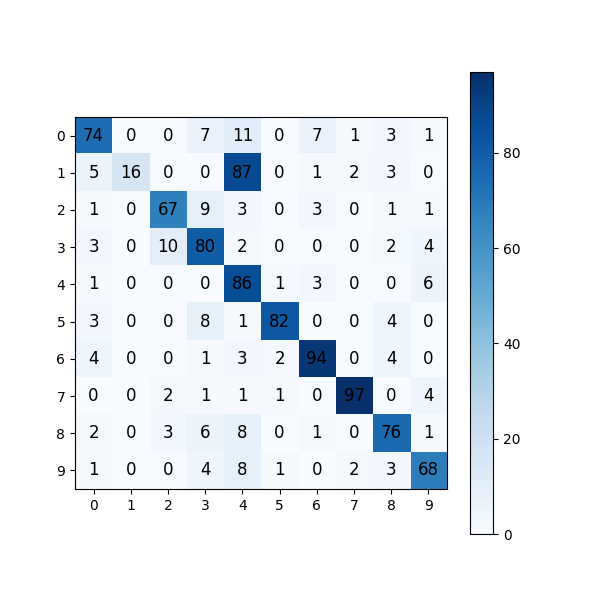
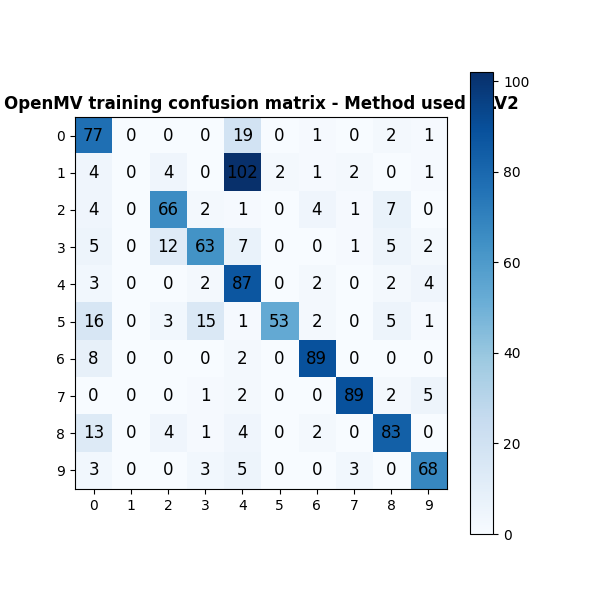
It seems that almost all training are working

diff --git a/OpenMV_application/Scripts/OpenMV/OpenMV_myLib.py b/OpenMV_application/Scripts/OpenMV/OpenMV_myLib.py
@@ -10,7 +10,7 @@ class LastLayer(object):
 
         self.method = 0
         self.W = 6
-        self.offset = self.W.copy()
+        self.offset = 6
         self.H = 1352
         self.counter = 0
 
@@ -115,6 +115,8 @@ def write_results(OL_layer):
 
     with open('training_results.txt', 'w') as f:
 
+        f.write(str(OL_layer.method) + '\n')
+
         # write the labels
         for i in range(0, OL_layer.W):
             f.write(OL_layer.label[i])
@@ -151,7 +153,7 @@ def write_results(OL_layer):
 
 def allocateMemory(OL_layer):
 
-    if(OL_layer.method != 0 and OL_layer.method != 1 and OL_layer.method != 3):
+    if(OL_layer.method != 0 and OL_layer.method != 1):
         setattr(OL_layer, "weights_2",     np.zeros((OL_layer.W,OL_layer.H)) )
         setattr(OL_layer, "biases_2",      np.zeros((OL_layer.W,1)) )
         setattr(OL_layer, "weights_new_2", np.zeros((1,OL_layer.H)) )
@@ -161,13 +163,8 @@ def allocateMemory(OL_layer):
     if(OL_layer.method == 4):
         setattr(OL_layer, "found_lett", np.zeros((OL_layer.W,1)) )
 
-    # LWF or LWF mini batches
-    if(OL_layer.method == 3 or OL_layer.method == 7):
 
-        OL_layer.weights_2     = OL_layer.weights.copy()
-        OL_layer.biases_2      = OL_layer.biases.copy()
-        OL_layer.weights_new_2 = OL_layer.weights_new.copy()
-        OL_layer.biases_new_2  = OL_layer.biases_new.copy()
+
 
 
 
@@ -189,21 +186,25 @@ def check_label(OL_layer, current_label):
         # If new label are multiple expand the matrix of weights/biases
         if(OL_layer.W>7):
 
+            # expand weights new
             tmp = np.zeros((1,OL_layer.H))
             OL_layer.weights_new   = np.concatenate((OL_layer.weights_new, tmp))
 
-            if(OL_layer.method != 0 and OL_layer.method != 1 and OL_layer.method != 3):
+            # expand weights new 2
+            if(OL_layer.method==4 or OL_layer.method==5 or OL_layer.method==6 or OL_layer.method==7):
                 OL_layer.weights_new_2 = np.concatenate((OL_layer.weights_new_2, tmp))
 
+            # expand biases new
             tmp = np.zeros((1,1))
             OL_layer.biases_new    = np.concatenate((OL_layer.biases_new, tmp), axis=0)
 
-            if(OL_layer.method != 0 and OL_layer.method != 1 and OL_layer.method != 3):
+            # expand biases new 2
+            if(OL_layer.method==4 or OL_layer.method==5 or OL_layer.method==6 or OL_layer.method==7):
                 OL_layer.biases_new_2  = np.concatenate((OL_layer.biases_new_2, tmp), axis=0)
 
-            if(OL_layer.method == 4):
-            OL_layer.found_lett = np.concatenate((OL_layer.found_lett, tmp), axis=0)
-
+        # expand found letters
+        if(OL_layer.method==4):
+            OL_layer.found_lett = np.concatenate((OL_layer.found_lett, np.zeros((1,1)) ), axis=0)
 
         # Append to known labels the new one
         OL_layer.label.append(current_label)
@@ -261,7 +262,7 @@ def feed_forward_V2(out_frozen, OL_layer):
     ret_ary = np.linalg.dot(OL_layer.weights_2, out_frozen) + OL_layer.biases_2
 
     # Feed forward on the new weights
-    if(OL_layer.W > 6 ):
+    if(OL_layer.W > 6 and OL_layer.method != 3):
         ret_ary_new = np.linalg.dot(OL_layer.weights_new_2, out_frozen) + OL_layer.biases_new_2
 
         ret_ary = np.concatenate((ret_ary, ret_ary_new))
@@ -402,17 +403,17 @@ def train_LWF(OL_layer, true_label, out_frozen):
     out_LWF_1 = feed_forward(out_frozen, OL_layer)
     out_LWF_2 = feed_forward_V2(out_frozen, OL_layer)
     prediction_1 = softmax(out_LWF_1)
-    prediction_2 = softmax(out_LWF_2)
+    prediction_2_tmp = softmax(out_LWF_2)
+    prediction_2 = np.zeros((OL_layer.W,1))
+    prediction_2[:6,0] = prediction_2_tmp[:6,0]
+
 
     # BACKPROPAGATION
     my_lambda = 100/(100+OL_layer.counter)
 
     cost_1 = np.zeros((OL_layer.W,1)) # normal cost
     cost_2 = np.zeros((OL_layer.W,1)) # LWF cost
-    if(cost_1[i,0]==0 and cost_2[i,0]==0):
-            continue
     tmp = np.zeros((2,1))
-
     out_frozen = np.array(out_frozen).reshape((1,OL_layer.H)) # Reshape
 
     # Compute cost
@@ -448,6 +449,9 @@ def train_CWR(OL_layer, true_label, out_frozen):
     out_CWR = feed_forward_V2(out_frozen, OL_layer)
     prediction = softmax(out_CWR)
 
+    # UPDATE LETTER FOUND COUNTER
+    OL_layer.found_lett[np.argmax(true_label)] += 1
+
     # BACKPROPAGATION
     cost = np.zeros((OL_layer.W,1)) # normal cost
     tmp = np.zeros((1,1))
@@ -477,20 +481,22 @@ def train_CWR(OL_layer, true_label, out_frozen):
     if((OL_layer.counter % OL_layer.batch_size == 0) and (OL_layer.counter != 0)):
 
         for i in range(0, OL_layer.W):
-            if(OL_layer.found_lett[i] != 0):
+            if(OL_layer.found_lett[i,0] != 0):
 
                 if(i<offset):
                     for j in range(0, OL_layer.H):
-                        OL_layer.weights[i,j] = ((OL_layer.weights[i,j]*OL_layer.found_lett[i])+OL_layer.weights_2[i,j])/(OL_layer.found_lett[i]+1)
+                        OL_layer.weights[i,j] = ((OL_layer.weights[i,j]*OL_layer.found_lett[i,0])+OL_layer.weights_2[i,j])/(OL_layer.found_lett[i,0]+1)
                         OL_layer.weights_2[i,j] = OL_layer.weights[i,j]
-                    OL_layer.biases[i,0] = ((OL_layer.biases[]*OL_layer.found_lett[i])+OL_layer.biases_2[i,0])/(OL_layer.found_lett[i]+1)
+                    OL_layer.biases[i,0] = ((OL_layer.biases[i,0]*OL_layer.found_lett[i,0])+OL_layer.biases_2[i,0])/(OL_layer.found_lett[i,0]+1)
                     OL_layer.biases_2[i,0] = OL_layer.biases[i,0]
                 else:
                     for j in range(0, OL_layer.H):
-                        OL_layer.weights_new[i-offset,j] = ((OL_layer.weights_new[i-offset,j]*OL_layer.found_lett[i])+OL_layer.weights_new_2[i-offset,j])/(OL_layer.found_lett[i]+1)
+                        OL_layer.weights_new[i-offset,j] = ((OL_layer.weights_new[i-offset,j]*OL_layer.found_lett[i])+OL_layer.weights_new_2[i-offset,j])/(OL_layer.found_lett[i,0]+1)
                         OL_layer.weights_new_2[i-offset,j] = OL_layer.weights_new[i-offset,j]
-                    OL_layer.biases_new[i-offset,0] = ((OL_layer.biases_new[i-offset,0]*OL_layer.found_lett[i])+OL_layer.biases_new_2[i-offset,0])/(OL_layer.found_lett[i]+1)
+                    OL_layer.biases_new[i-offset,0] = ((OL_layer.biases_new[i-offset,0]*OL_layer.found_lett[i,0])+OL_layer.biases_new_2[i-offset,0])/(OL_layer.found_lett[i,0]+1)
                     OL_layer.biases_new_2[i-offset,0] = OL_layer.biases_new[i-offset,0]
+
+            OL_layer.found_lett[i,0] = 0
 
     return prediction
 
@@ -609,10 +615,14 @@ def train_LWF_mini_batch(OL_layer, true_label, out_frozen):
     out_LWF_1 = feed_forward(out_frozen, OL_layer)
     out_LWF_2 = feed_forward_V2(out_frozen, OL_layer)
     prediction_1 = softmax(out_LWF_1)
-    prediction_2 = softmax(out_LWF_2)
+    # non propriamente giusto per lwf bathc
+    prediction_2_tmp = softmax(out_LWF_2)
+    prediction_2 = np.zeros((OL_layer.W,1))
+    prediction_2[:6,0] = prediction_2_tmp[:6,0]
 
+    my_lambda = 0
     # BACKPROPAGATION
-    if(OL_layer.counter < OL_layer.batch_size)
+    if(OL_layer.counter < OL_layer.batch_size):
         my_lambda = 1
     else:
         my_lambda = OL_layer.batch_size/OL_layer.counter
@@ -629,8 +639,6 @@ def train_LWF_mini_batch(OL_layer, true_label, out_frozen):
 
         cost_1[i,0] = (prediction_1[i,0]-true_label[i,0])*(1-my_lambda)*OL_layer.l_rate
         cost_2[i,0] = (prediction_1[i,0]-prediction_2[i,0])*my_lambda*OL_layer.l_rate
-        if(cost_1[i,0]==0 and cost_2[i,0]==0):
-            continue
         tmp[0,0] = cost_1[i,0]
         tmp[1,0] = cost_2[i,0]
         dW = np.linalg.dot(tmp, out_frozen)
@@ -646,13 +654,13 @@ def train_LWF_mini_batch(OL_layer, true_label, out_frozen):
     # BATCH FINISHED
     if((OL_layer.counter % OL_layer.batch_size == 0) and (OL_layer.counter != 0)):
 
-        for i in range(0, size):
-            # Reset weight matrix
-            OL_layer.weights_2 = OL_layer.weights.copy()
-            OL_layer.weights_new_2 = OL_layer.weights_new.copy()
-            # Reset biases
-            OL_layer.biases_2 = OL_layer.biases.copy()
-            OL_layer.biases_new_2 = OL_layer.biases_new.copy()
+        for i in range(0, OL_layer.W):
+            if(i<6):
+                OL_layer.weights_2[i,:] = OL_layer.weights[i,:]
+                OL_layer.biases_2[i,0] = OL_layer.biases[i,0]
+            else:
+                OL_layer.weights_new_2[i-offset,:] = OL_layer.weights_new[i-offset,:]
+                OL_layer.biases_new_2[i-offset,0] = OL_layer.biases_new[i-offset,0]
 
     return prediction_1
 

diff --git a/OpenMV_application/Scripts/OpenMV/run_create_plots.py b/OpenMV_application/Scripts/OpenMV/run_create_plots.py
@@ -40,6 +40,9 @@ SAVE_PLOTS__PATH = ROOT__PATH + '\\Plots_results\\'
 
 
 confusion_matrix = np.zeros((10,10))
+method_used = -1
+methods = ["INFERENCE", "OL", "OLV2", "LWF", "CWR", "OL mini batches", "OLV2 mini batches", "LWF mini batches"]
+save_name = ["INFERENCE_", "OL_", "OLV2_", "LWF_", "CWR_", "OL_batches_", "OLV2_batches_", "LWF_batches_"]
 openmv_labels = []
 openmv_times = []
 real_labels = ['0','1','2','3','4','5','6','7','8','9']
@@ -49,11 +52,18 @@ size = len(real_labels)
 with open(ROOT__PATH + '\\training_results.txt') as f:
 
     j,i = 0,0
+    method_flag = 0
     label_flag = 0
     times_flag = 0
     for line in f:  # cycle over lines 
 
-        if(label_flag==0):
+        if(method_flag==0):
+            data = line.split(',')  # split one line in each single number
+            for number in data:
+                method_used = int(number)
+            method_flag = 1
+
+        elif(label_flag==0 and method_flag==1):
             data = line.split(',')  # split one line in each single number
             for number in data:
                 openmv_labels.append(number)
@@ -105,8 +115,8 @@ plt.ylim([0, 100])
 plt.ylabel('Accuracy %', fontsize = 15)
 plt.xlabel('Classes', fontsize = 15)
 plt.xticks([r for r in range(size)], real_labels, fontweight ='bold', fontsize = 12)
-plt.title('Accuracy test - Method used: '  , fontweight ='bold', fontsize = 15)
-plt.savefig(SAVE_PLOTS__PATH + 'barPlot.png')
+plt.title('Accuracy test - Method used: ' + methods[method_used]  , fontweight ='bold', fontsize = 15)
+plt.savefig(SAVE_PLOTS__PATH + save_name[method_used] +'barPlot.png')
 plt.show()
 # --------
 
@@ -128,8 +138,8 @@ for x in range(width):
 cb = fig.colorbar(res)
 plt.xticks(range(width), real_labels[:width])
 plt.yticks(range(height), real_labels[:height])
-plt.title('OpenMV training confusion matrix', fontweight ="bold") 
-plt.savefig(SAVE_PLOTS__PATH + 'confusionMatrix.png')
+plt.title('OpenMV training confusion matrix - Method used ' + methods[method_used], fontweight ="bold") 
+plt.savefig(SAVE_PLOTS__PATH + save_name[method_used] +'confusionMatrix.png')
 plt.show()
 
 # --------
@@ -162,7 +172,9 @@ table = ax.table(
 
 table.scale(1,2) 
 table.set_fontsize(10)
-ax.set_title('OpenMV training results', fontweight ="bold") 
+ax.set_title('OpenMV training results - Method used ' + methods[method_used], fontweight ="bold") 
+plt.savefig(SAVE_PLOTS__PATH + save_name[method_used] +'table.png')
+
 plt.show()
 # --------
 

diff --git a/OpenMV_application/Scripts/OpenMV/OpenMV_OL_training_sync.py b/OpenMV_application/Scripts/OpenMV/OpenMV_OL_training_sync.py
@@ -33,12 +33,12 @@ myLib.load_weights(OL_layer)            # Read from the txt file the biases and 
 # 0 -> no training, just inference
 # 1 -> OL               WORKS - perfoms good
 # 2 -> OLV2             WORKS - labels confused
-# 3 -> LWF              IMPLEMENTED
+# 3 -> LWF              WORKS - still to test best performance
 # 4 -> CWR              IMPLEMENTED
 # 5 -> OL mini batch    WORKS - still to test best performance
 # 6 -> OLV2 mini batch  WORKS - still to test best performance
-# 7 -> LWF mini batch   IMPLEMENTED
-OL_layer.method = 6
+# 7 -> LWF mini batch   WORKS - still to test best performance
+OL_layer.method = 4
 
 myLib.allocateMemory(OL_layer)
 
@@ -48,7 +48,7 @@ LED2 = pyb.LED(1)
 # *******************
 
 label = 'X'
-train_limit = 3000      # after how many prediction start to save inside confusion matrix
+train_limit = 5000      # after how many prediction start to save inside confusion matrix
 
 # START THE INFINITE LOOP
 OL_layer.counter = 0
@@ -65,16 +65,16 @@ while(True):
     # STREAM
     if(cmd == 'snap'):
 
-        LED2.off()
+        #LED2.off()
         img = sensor.snapshot()                 # Take the photo and return image
 
         if(OL_layer.counter>train_limit):
             myLib.write_results(OL_layer)       # Write confusion matrix in a txt file
-        LED2.off()
+        #LED2.off()
 
     # TRAIN
     elif(cmd == 'trai'):
-        LED1.on()
+        #LED1.on()
 
         t_0 = pyb.millis()
 
@@ -102,7 +102,7 @@ while(True):
         OL_layer.times[0,1] += t_2 - t_1
         OL_layer.times[0,2] += t_2 - t_0
         OL_layer.counter += 1
-        LED1.off()
+        #LED1.off()
 
     # STREAM
     else:

diff --git a/OpenMV_application/Scripts/Trainings/ImageDIsplay.py b/OpenMV_application/Scripts/Trainings/ImageDIsplay.py
@@ -98,7 +98,7 @@ cv2.imshow('SYNC APP', main_img)
 cv2.createTrackbar('Training', 'SYNC APP', 0, 2, on_change)
 
 # Import the dataset that I am going to display
-samples_for_each_digit = 400
+samples_for_each_digit = 600
 digits_i_want          = [0,1,2,3,4,5,6,7,8,9]
 digits_data, digits_label = createDataset(samples_for_each_digit, digits_i_want)
 tot_samples = len(digits_label)
@@ -137,6 +137,7 @@ while 1:
     zoom_openmv = cv2.resize(img_openmv, (0, 0), fx=5, fy=5)
     cv2.imshow('OpenMV view - Zoomed', zoom_openmv)
     """
+    
 
     if(myClass.TRAINING_FLAG == 2):
         cv2.waitKey(150)

diff --git a/OpenMV_application/Scripts/OpenMV/OpenMV_OL_training_debug.py b/OpenMV_application/Scripts/OpenMV/OpenMV_OL_training_debug.py
@@ -41,7 +41,8 @@ myLib.load_labels(OL_layer)
 # 5 -> OL mini batch
 # 6 -> OLV2 mini batch
 # 7 -> LWF mini batch
-OL_layer.method = 5
+OL_layer.method = 4
+myLib.allocateMemory(OL_layer)
 
 current_label ='X'
 
@@ -78,7 +79,7 @@ while(True):
     # PERFORM BACK PROPAGATION AND UPDATE PERFORMANCE COUNTER
     if(counter%47==0 and train_counter<100):
 
-        myLib.back_propagation(true_label, prediction, OL_layer, out_frozen)
+        myLib.train_layer(OL_layer, true_label, out_frozen)
 
         train_counter+=1
 
